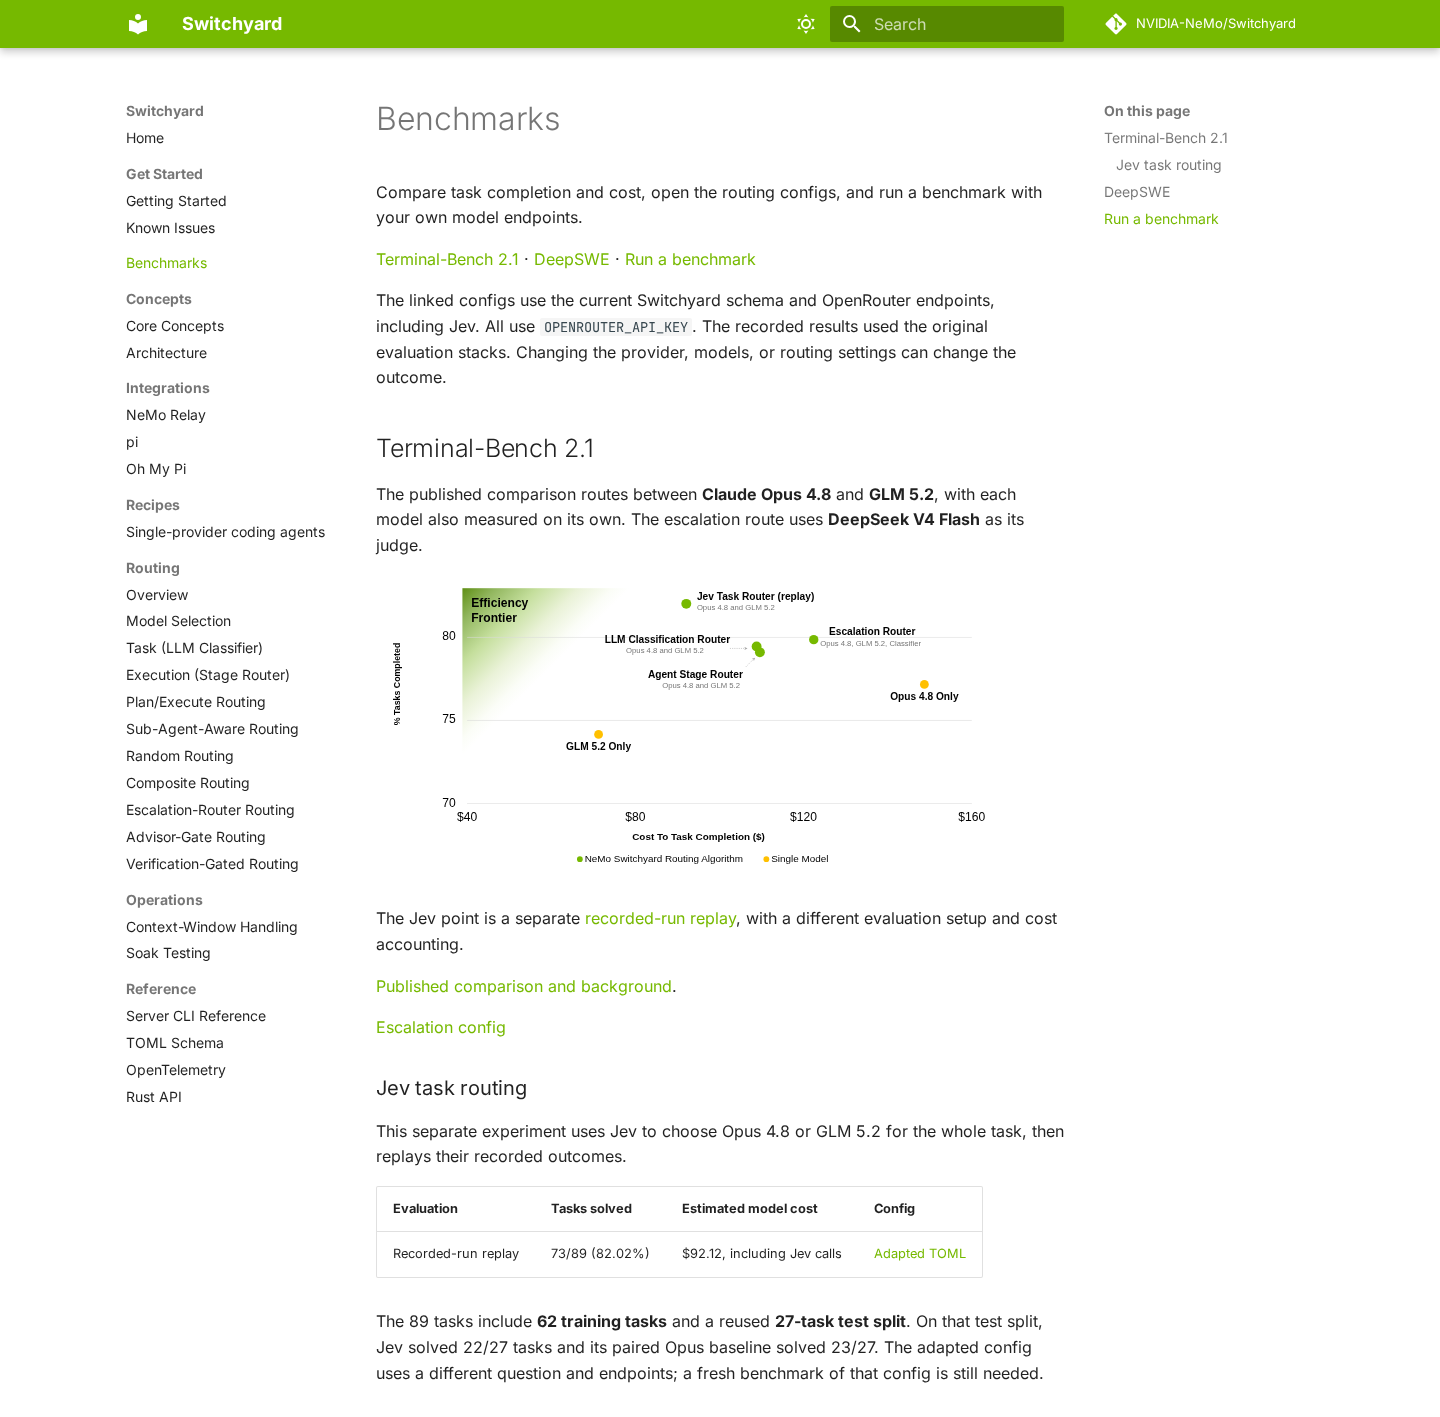
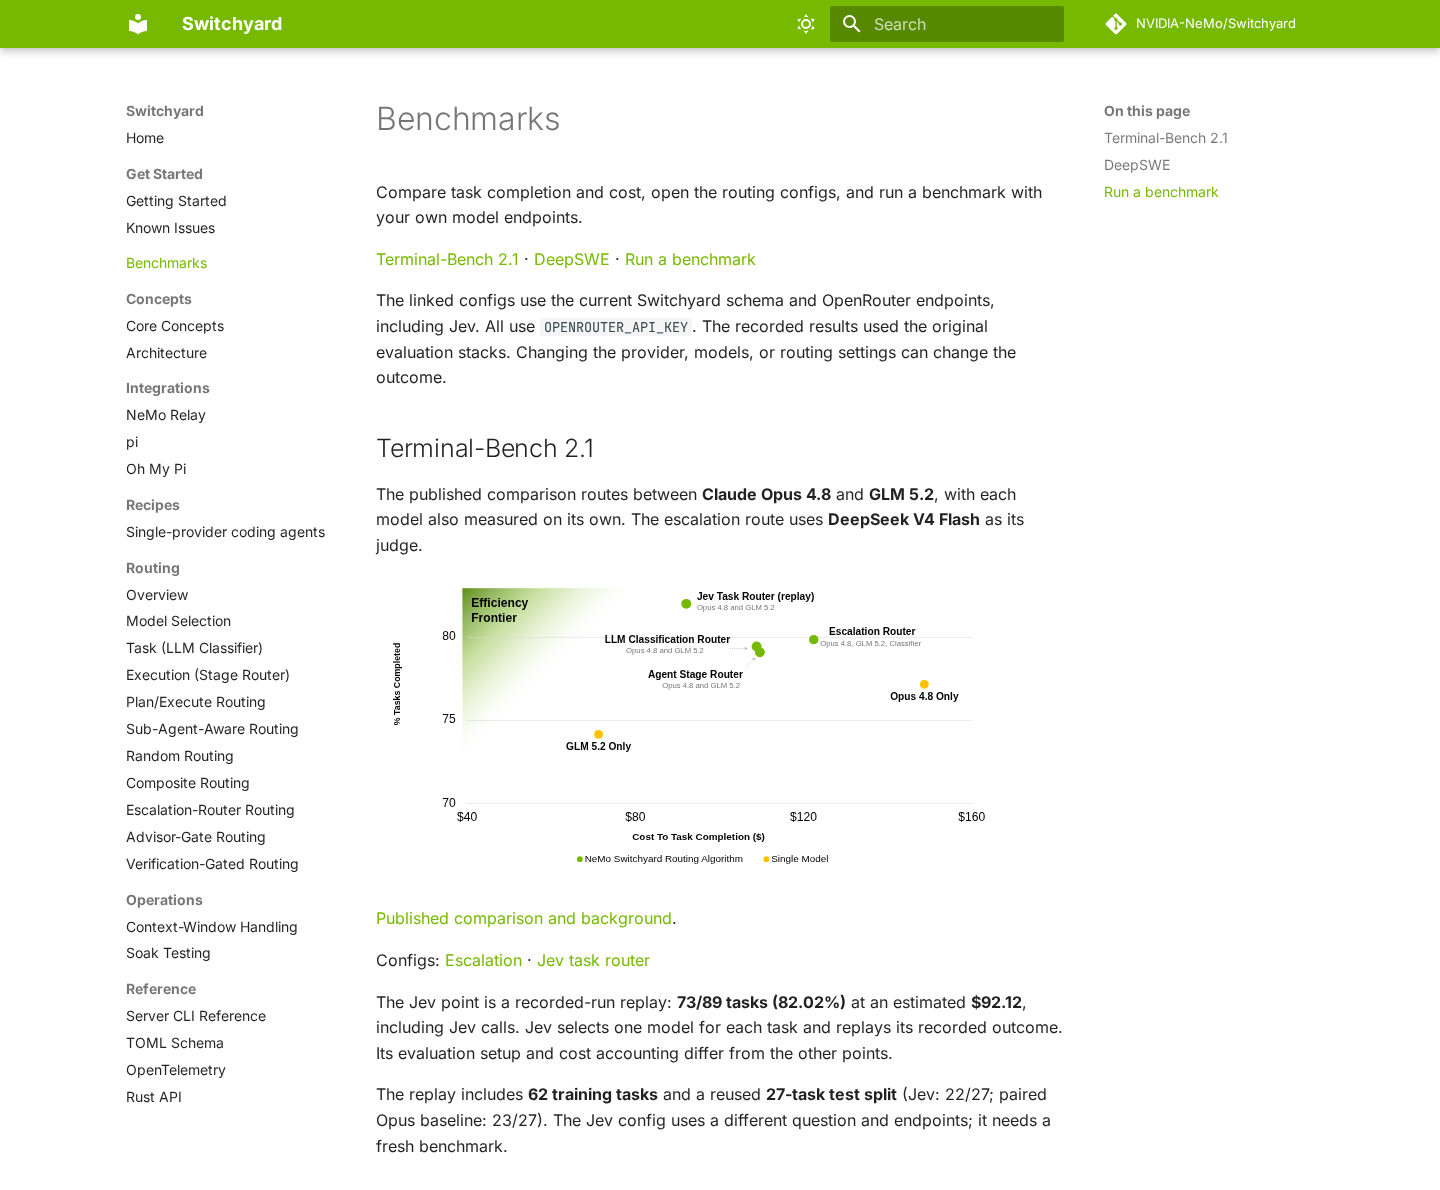
docs(benchmarks): refresh consolidated results preview

diff --git a/docs/benchmarks.md b/docs/benchmarks.md
@@ -15,25 +15,18 @@ also measured on its own. The escalation route uses **DeepSeek V4 Flash** as its
 
 ![Terminal-Bench 2.1 task completion versus cost for LLM classification, Stage, and Escalation routing, with Opus 4.8 and GLM 5.2 baselines and a separate Jev recorded-run replay.](assets/switchyard-cost-accuracy.svg)
 
-The Jev point is a separate [recorded-run replay](#jev-task-routing), with a different
-evaluation setup and cost accounting.
-
 [Published comparison and background](https://developer.nvidia.com/blog/route-ai-agent-workloads-across-models-with-nvidia-nemo-switchyard/).
 
-[Escalation config](../benchmark/routing-profiles/tb21-escalation-opus-glm-deepseek.toml)
+Configs: [Escalation](../benchmark/routing-profiles/tb21-escalation-opus-glm-deepseek.toml) ·
+[Jev task router](../benchmark/routing-profiles/tb21-jev-opus-glm.toml)
 
-### Jev task routing
+The Jev point is a recorded-run replay: **73/89 tasks (82.02%)** at an estimated **$92.12**,
+including Jev calls. Jev selects one model for each task and replays its recorded outcome.
+Its evaluation setup and cost accounting differ from the other points.
 
-This separate experiment uses Jev to choose Opus 4.8 or GLM 5.2 for the whole task, then
-replays their recorded outcomes.
-
-| Evaluation | Tasks solved | Estimated model cost | Config |
-| --- | --- | --- | --- |
-| Recorded-run replay | 73/89 (82.02%) | $92.12, including Jev calls | [Adapted TOML](../benchmark/routing-profiles/tb21-jev-opus-glm.toml) |
-
-The 89 tasks include **62 training tasks** and a reused **27-task test split**. On that test
-split, Jev solved 22/27 tasks and its paired Opus baseline solved 23/27. The adapted config uses
-a different question and endpoints; a fresh benchmark of that config is still needed.
+The replay includes **62 training tasks** and a reused **27-task test split** (Jev: 22/27;
+paired Opus baseline: 23/27). The Jev config uses a different question and endpoints; it needs
+a fresh benchmark.
 
 ## DeepSWE
 
